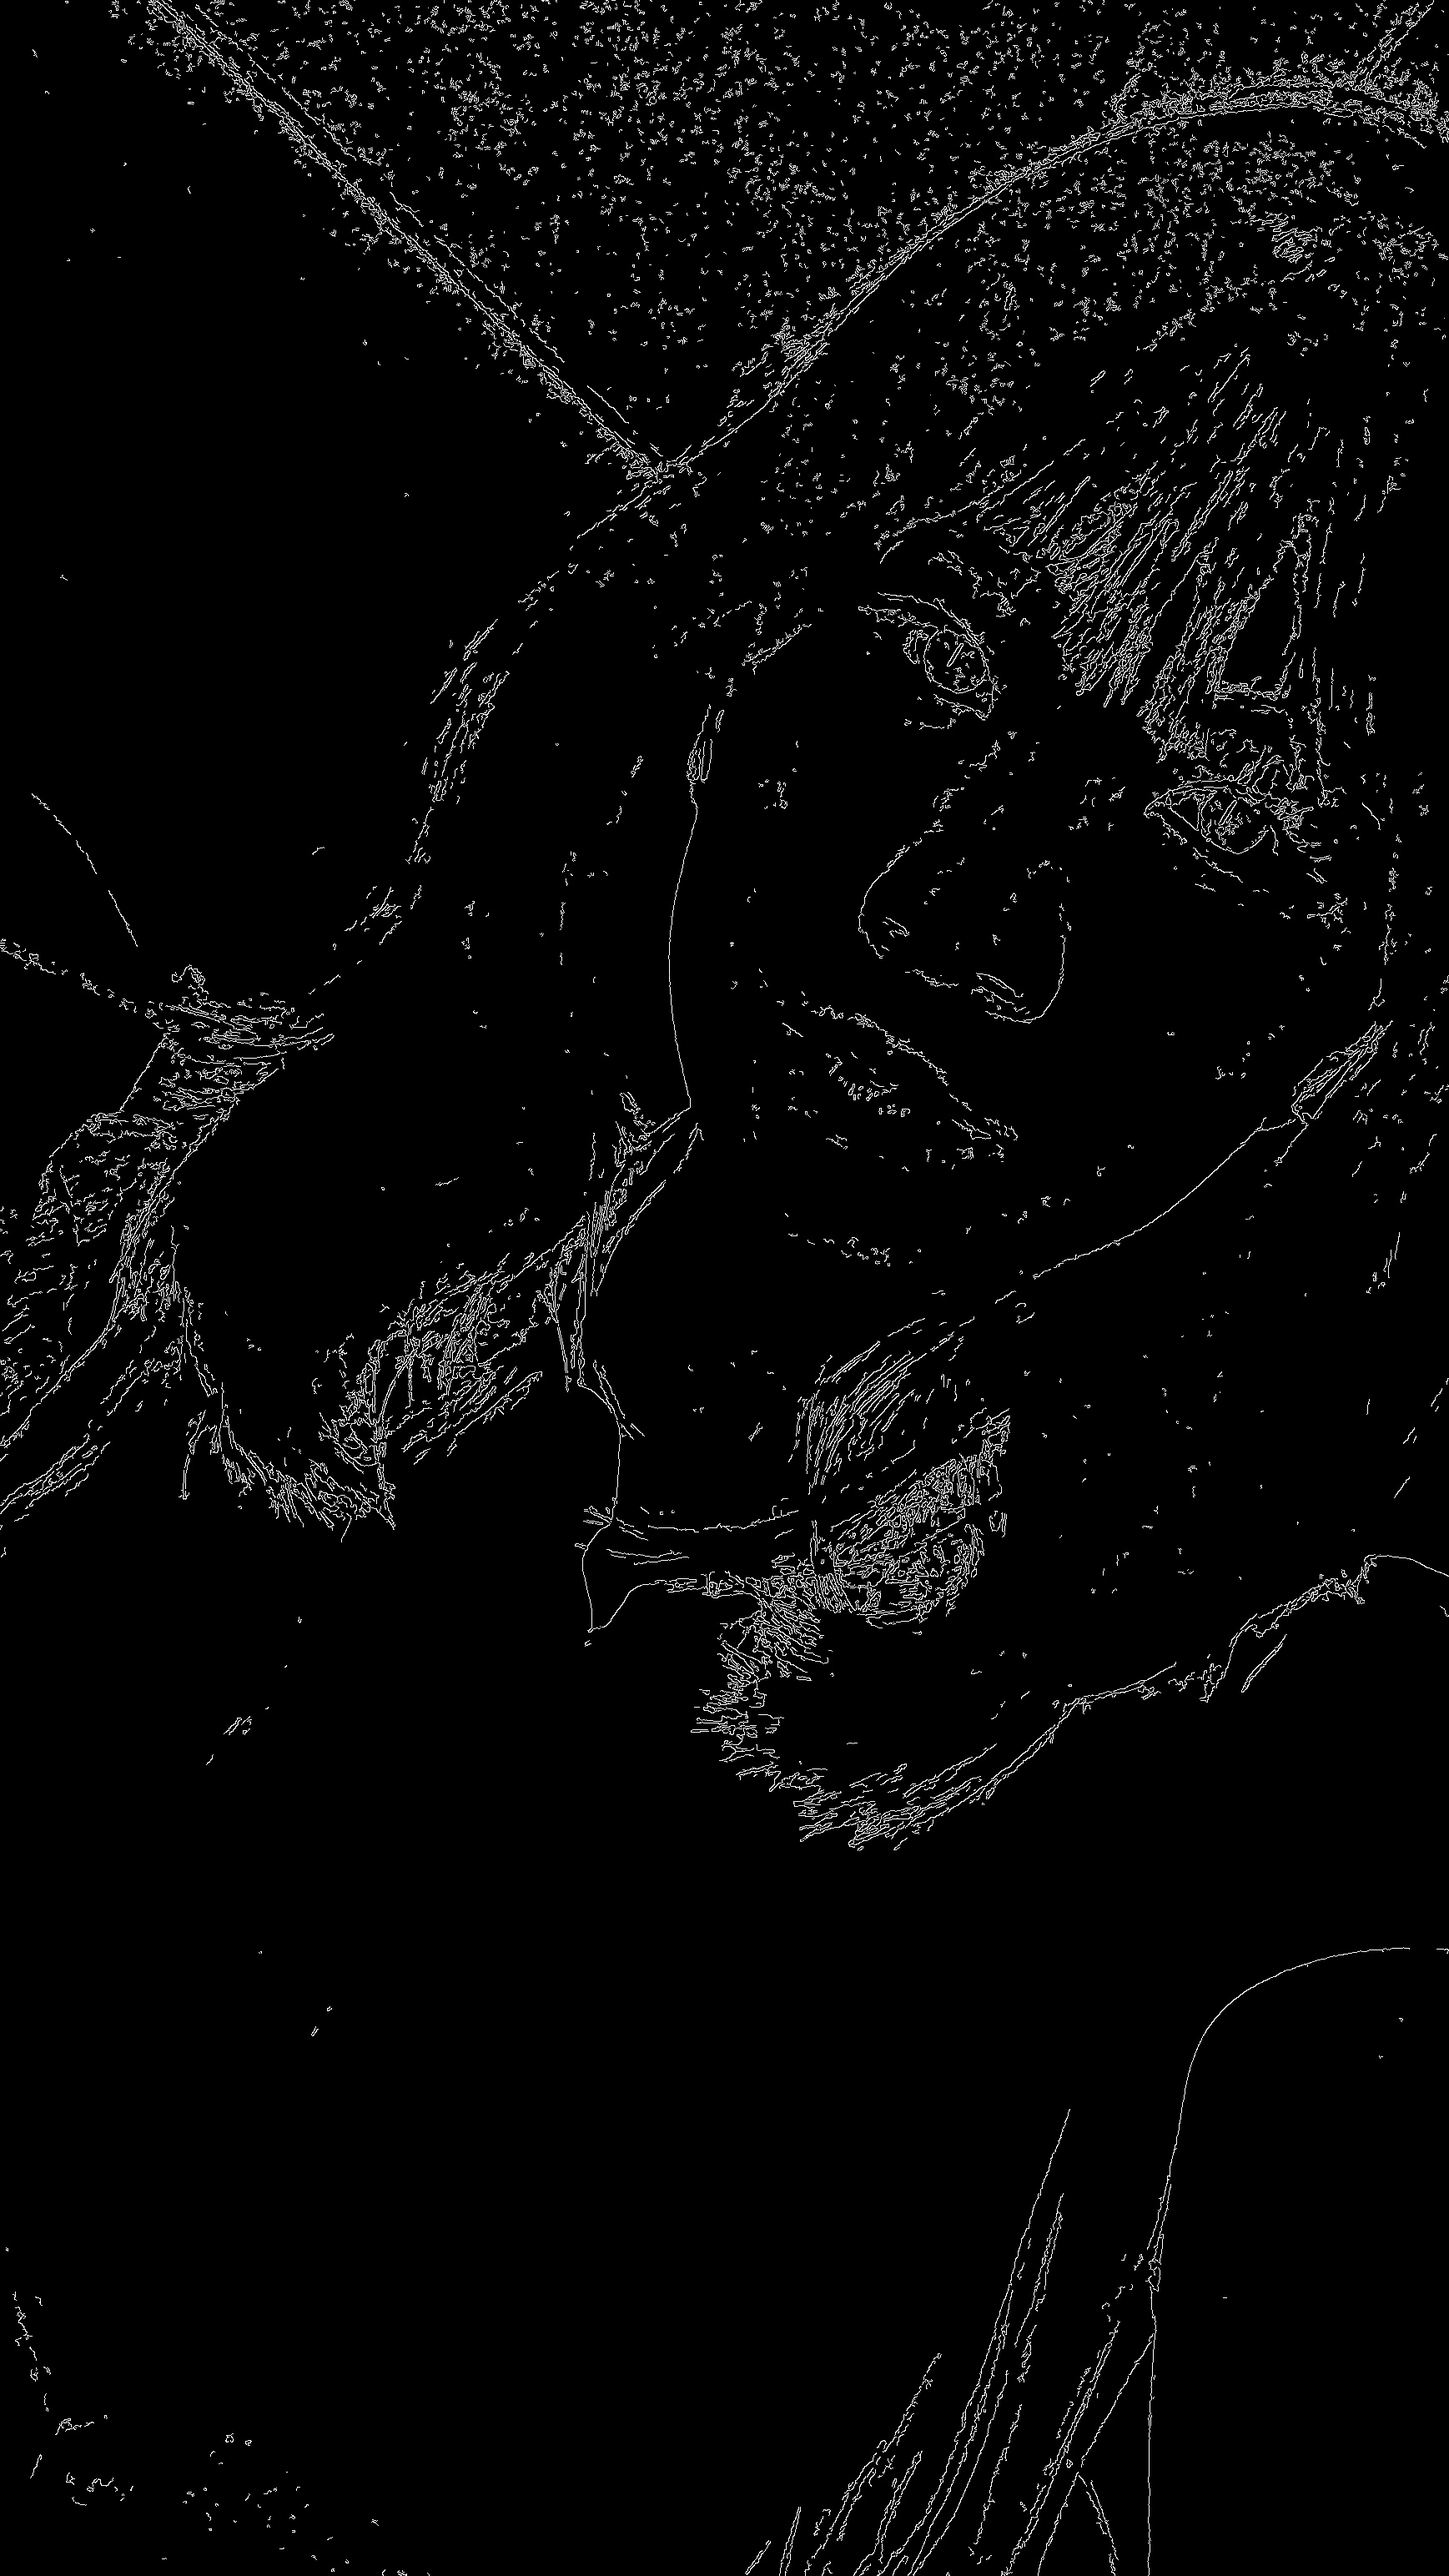
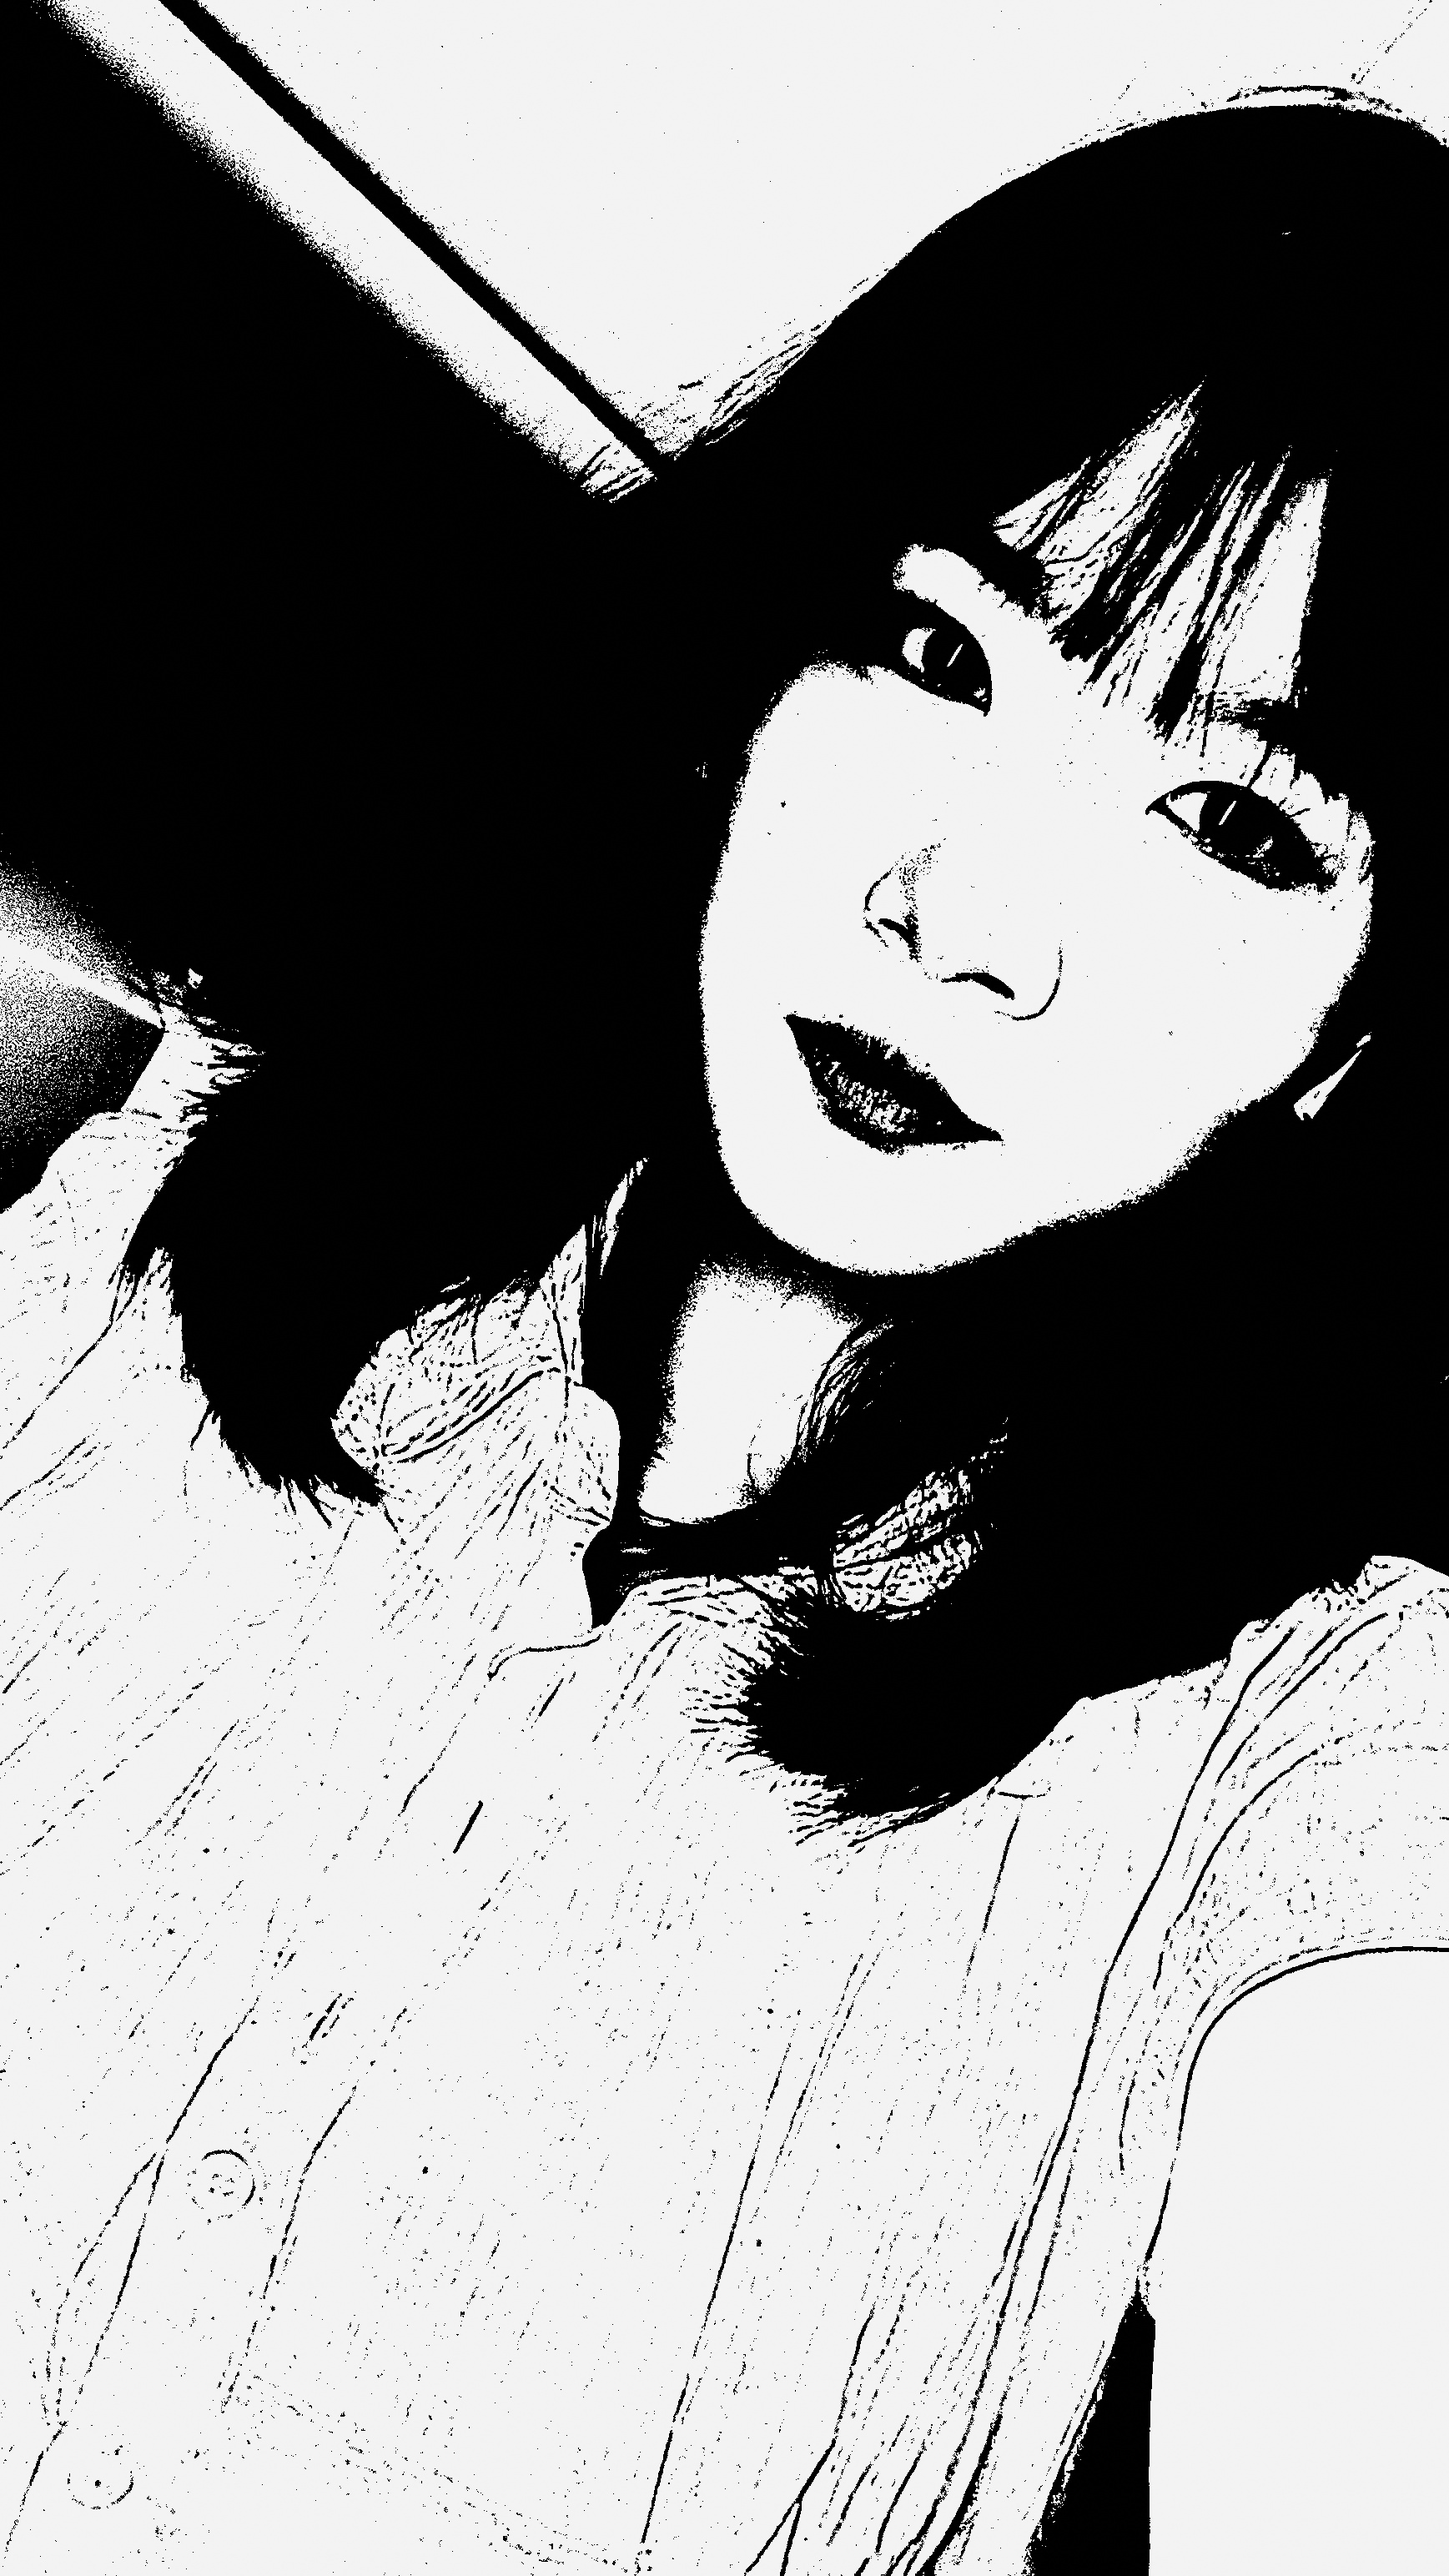
more tomie

diff --git a/utils.py b/utils.py
@@ -2,28 +2,30 @@ import cv2 as cv
 import numpy as np
 
 def tomie_style(img):
-    # 1. Grayscale
+    # 1. Grayscale 변환
     gray = cv.cvtColor(img, cv.COLOR_BGR2GRAY)
 
-    # 2. Contrast Enhancement
-    gray = cv.equalizeHist(gray)
-    gray = cv.convertScaleAbs(gray, alpha=1.5, beta=0)
+    # 2. 노이즈 제거 (피부 톤을 깨끗하게 정리)
+    gray_blurred = cv.bilateralFilter(gray, 9, 75, 75)
 
-    # 3. Edge Detection (sharp lines)
-    edges = cv.Canny(gray, 100, 200)
+    # 3. 선 추출 (Canny 대신 Sketch 효과를 위해 Adaptive Threshold 사용)
+    # 토미에 특유의 얇고 날카로운 선을 따기 위해 블록 사이즈를 작게 조절합니다.
+    edges = cv.adaptiveThreshold(gray_blurred, 255,
+                                  cv.ADAPTIVE_THRESH_GAUSSIAN_C,
+                                  cv.THRESH_BINARY, 9, 2)
 
-    # 4. Shading (공포 느낌 핵심)
-    blur = cv.GaussianBlur(gray, (5, 5), 0)
-    shading = cv.divide(gray, blur, scale=255)
+    # 4. 강한 대비 (Thresholding) - 배경과 피부를 하얗게 날림
+    # 127보다 밝은 부분은 255(흰색)로, 어두운 부분은 강조
+    _, high_contrast = cv.threshold(gray, 130, 255, cv.THRESH_BINARY)
 
-    # 5. Texture (grain)
-    noise = np.random.normal(0, 10, gray.shape).astype(np.uint8)
-    texture = cv.add(shading, noise)
+    # 5. 선과 면의 합성
+    # 에지(edges)와 고대비 이미지(high_contrast)를 합성하여 
+    # 흰 바탕에 검은 선과 명암만 남깁니다.
+    result = cv.bitwise_and(edges, high_contrast)
 
-    # 6. Edge 강조
-    result = cv.bitwise_and(texture, texture, mask=edges)
-
-    # 7. 최종 대비 강화
-    result = cv.convertScaleAbs(result, alpha=1.2, beta=0)
+    # 6. (선택) 질감 추가 - 이토 준지 특유의 스크린톤 느낌
+    noise = np.random.randint(0, 20, result.shape, dtype='uint8')
+    # 어두운 영역에만 아주 살짝 노이즈를 섞어 종이 질감을 줍니다.
+    result = cv.addWeighted(result, 0.95, noise, 0.05, 0)
 
     return result
